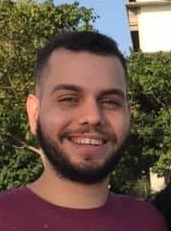
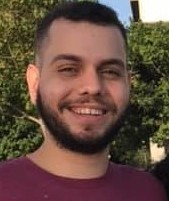
Fix image blur and more mobile compability

diff --git a/src/components/header.tsx b/src/components/header.tsx
@@ -25,21 +25,23 @@ interface Props {
   className: string;
   // data: { site: { siteMetadata: { title: string } } };
 }
-
+const activeStyles = {
+  color: 'grey',
+};
 const Header: React.FC<Props> = ({ siteTitle }) => {
   const data = useStaticQuery(graphql`
     query {
       mobileImage: file(relativePath: { eq: "profile_beta.png" }) {
         childImageSharp {
           fluid(maxWidth: 48, maxHeight: 48, quality: 100) {
-            ...GatsbyImageSharpFluid
+            ...GatsbyImageSharpFluid_noBase64
           }
         }
       }
       desktopImage: file(relativePath: { eq: "profile_beta.png" }) {
         childImageSharp {
-          fluid(maxWidth: 48, maxHeight: 48, quality: 60) {
-            ...GatsbyImageSharpFluid
+          fluid(maxWidth: 300, maxHeight: 300, quality: 100) {
+            ...GatsbyImageSharpFluid_noBase64
           }
         }
       }
@@ -69,31 +71,43 @@ const Header: React.FC<Props> = ({ siteTitle }) => {
         </div>
         <ul className={nav}>
           <li>
-            <Link to="/about">
+            <Link to="/about" activeStyle={activeStyles}>
               <User color="#ff2079" size={18} /> Sobre
             </Link>
           </li>
           <li>
-            <Link to="/blog">
+            <Link to="/blog" activeStyle={activeStyles}>
               {' '}
               <BookOpen color="#ff2079" size={18} /> Blog
             </Link>
           </li>
 
           <li>
-            <Link to="/projects">
+            <Link to="/projects" activeStyle={activeStyles}>
               <Box color="#ff2079" size={18} /> Projects
             </Link>
           </li>
         </ul>
         <div className={socialList}>
-          <a href="https://www.linkedin.com/in/muriloarruda/" target="_blank">
+          <a
+            href="https://www.linkedin.com/in/muriloarruda/"
+            target="_blank"
+            rel="noopener"
+          >
             <Linkedin />
           </a>
-          <a href="https://twitter.com/passocabr" target="_blank">
+          <a
+            href="https://twitter.com/passocabr"
+            target="_blank"
+            rel="noopener"
+          >
             <Twitter />
           </a>
-          <a href="https://github.com/murilo-arruda" target="_blank">
+          <a
+            href="https://github.com/murilo-arruda"
+            target="_blank"
+            rel="noopener"
+          >
             <GitHub />
           </a>
         </div>

diff --git a/src/cardsIndex.tsx b/src/cardsIndex.tsx
@@ -2,21 +2,6 @@ export default [
   {
     img: {
       src: 'https://via.placeholder.com/300x150',
-      alt: 'blog thumbnail',
-    },
-    title: 'Blog',
-    description: 'Minhas descobertas e aprendizados no mundo da programação.',
-    linkList: [
-      {
-        gatsbyLink: true,
-        destination: '/blog',
-        text: 'Blogs',
-      },
-    ],
-  },
-  {
-    img: {
-      src: 'https://via.placeholder.com/300x150',
       alt: 'Sobre mim thumb',
     },
     title: 'Sobre mim',
@@ -29,6 +14,22 @@ export default [
       },
     ],
   },
+  {
+    img: {
+      src: 'https://via.placeholder.com/300x150',
+      alt: 'blog thumbnail',
+    },
+    title: 'Blog',
+    description: 'Minhas descobertas e aprendizados no mundo da programação.',
+    linkList: [
+      {
+        gatsbyLink: true,
+        destination: '/blog',
+        text: 'Blogs',
+      },
+    ],
+  },
+
   {
     img: {
       src: 'https://via.placeholder.com/300x150',

diff --git a/src/templates/card.module.scss b/src/templates/card.module.scss
@@ -8,6 +8,7 @@
 }
 .card {
   width: 300px;
+  margin-bottom: 15px;
   background-color: $main-neon;
   border: 4px solid $pink-red-neon;
   padding-bottom: 5px;
@@ -44,5 +45,11 @@
   }
   &:active {
     transform: translateY(1px);
+  }
+}
+@media (max-width: 460px) {
+  .card {
+    border: 2px solid $pink-red-neon;
+    box-shadow: 0 0 6px 2px $pink-red-neon;
   }
 }

diff --git a/src/components/layout.module.scss b/src/components/layout.module.scss
@@ -1,3 +1,4 @@
+@import '../utils/variables';
 .main {
   display: flex;
   height: 100vh;
@@ -30,5 +31,8 @@
 @media (max-width: 460px) {
   .main {
     margin-top: 4.8rem;
+  }
+  body {
+    background-color: $dark-blue;
   }
 }

diff --git a/src/components/header.module.scss b/src/components/header.module.scss
@@ -121,6 +121,7 @@
         height: 2.5rem;
       }
       h1 {
+        margin-left: 10px;
         font-size: 1em;
         margin-bottom: 0.3em;
         font-weight: 500;
